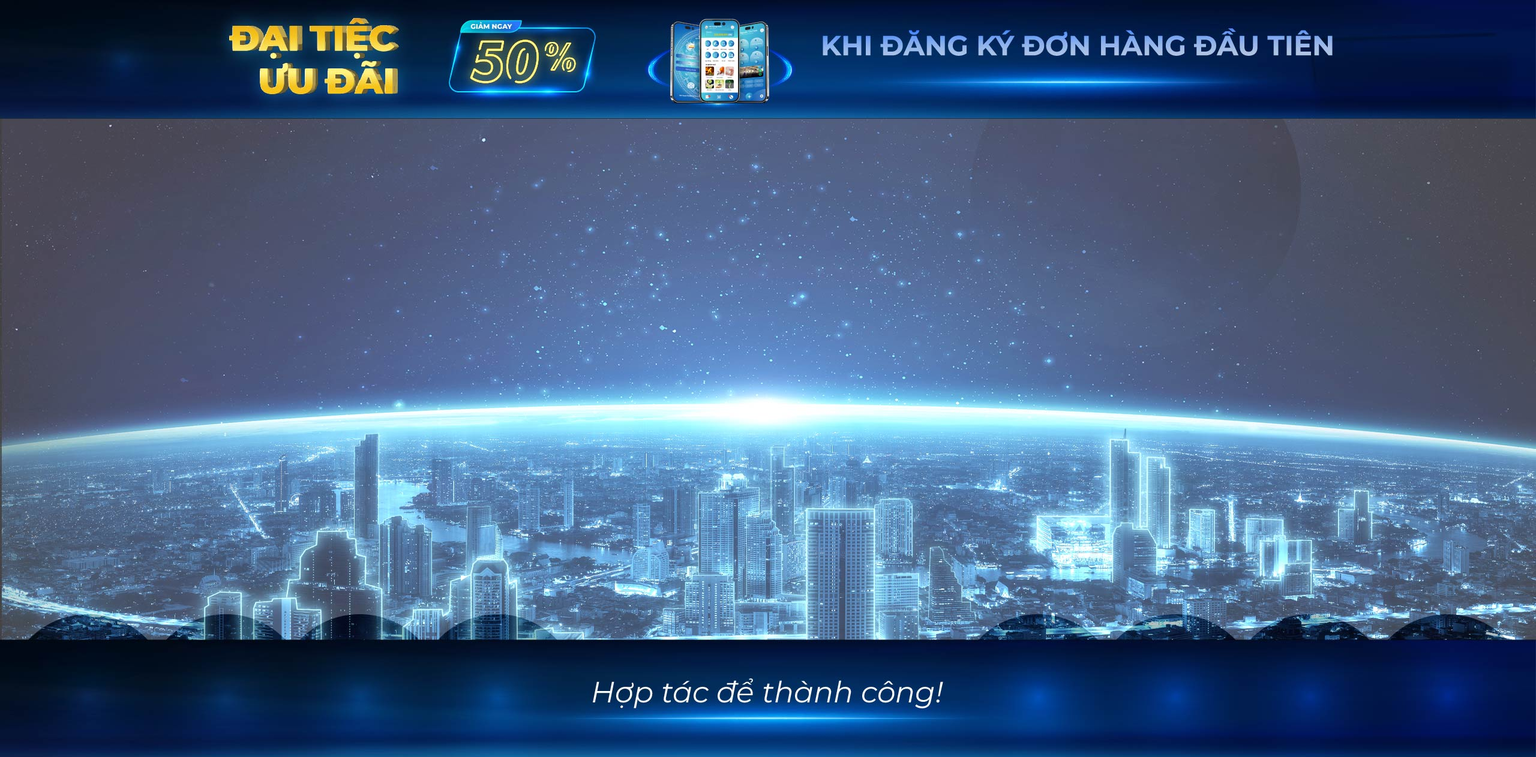
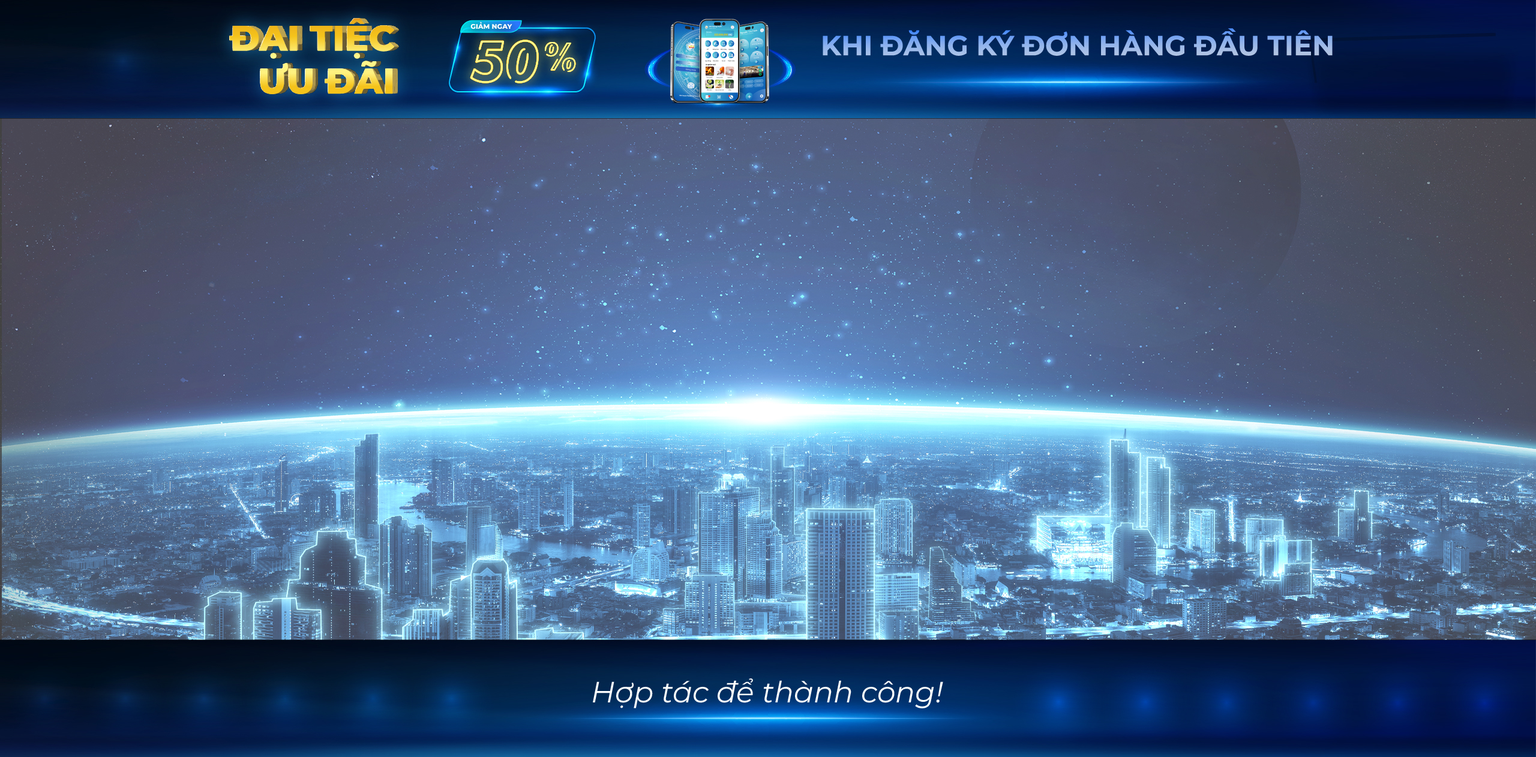
updateshot

diff --git a/static-fliphtml5-com/resourceFiles/html5_templates/template/Popular/style/style.css b/static-fliphtml5-com/resourceFiles/html5_templates/template/Popular/style/style.css
@@ -68,11 +68,28 @@
      left: 0;
      display: block;
      overflow: hidden;
-     background-image: url('/files/shot.jpg');
      background-repeat: no-repeat;
      background-position: center;
-     background-size: contain;
  }
+
+ /* Định nghĩa background image khi tỉ lệ màn hình > 16:9 */
+ @media screen and (min-aspect-ratio: 16/9) {
+     .bookContainer {
+         background-image: url('/files/shot2.jpg');
+         background-size: cover;
+         /* hoặc contain tùy thuộc vào nhu cầu */
+     }
+ }
+
+ /* Định nghĩa background image khi tỉ lệ màn hình là 16:9 */
+ @media screen and (max-aspect-ratio: 16/9) {
+     .bookContainer {
+         background-image: url('/files/shot.jpg');
+         background-size: cover;
+         /* hoặc cover tùy thuộc vào nhu cầu */
+     }
+ }
+
 
 
  img {

diff --git a/index.html b/index.html
@@ -73,17 +73,17 @@
 		position: fixed;
 		top: 3vh;
 		right: 5vh;
-		width: 10vh;
+		width: 6vw;
 		height: 5vh;
         border: none;
         color: white;
-		font-family: 'Montserrat';font-size: 22px;
+		font-family: 'Montserrat';
+		font-size: 2vh;
 		font-weight: 800;
 		padding: 10px 20px;
         text-align: center;
         text-decoration: none;
         display: inline-block;
-        font-size: 16px;
         cursor: pointer;
         border-radius: 20px;
     }
